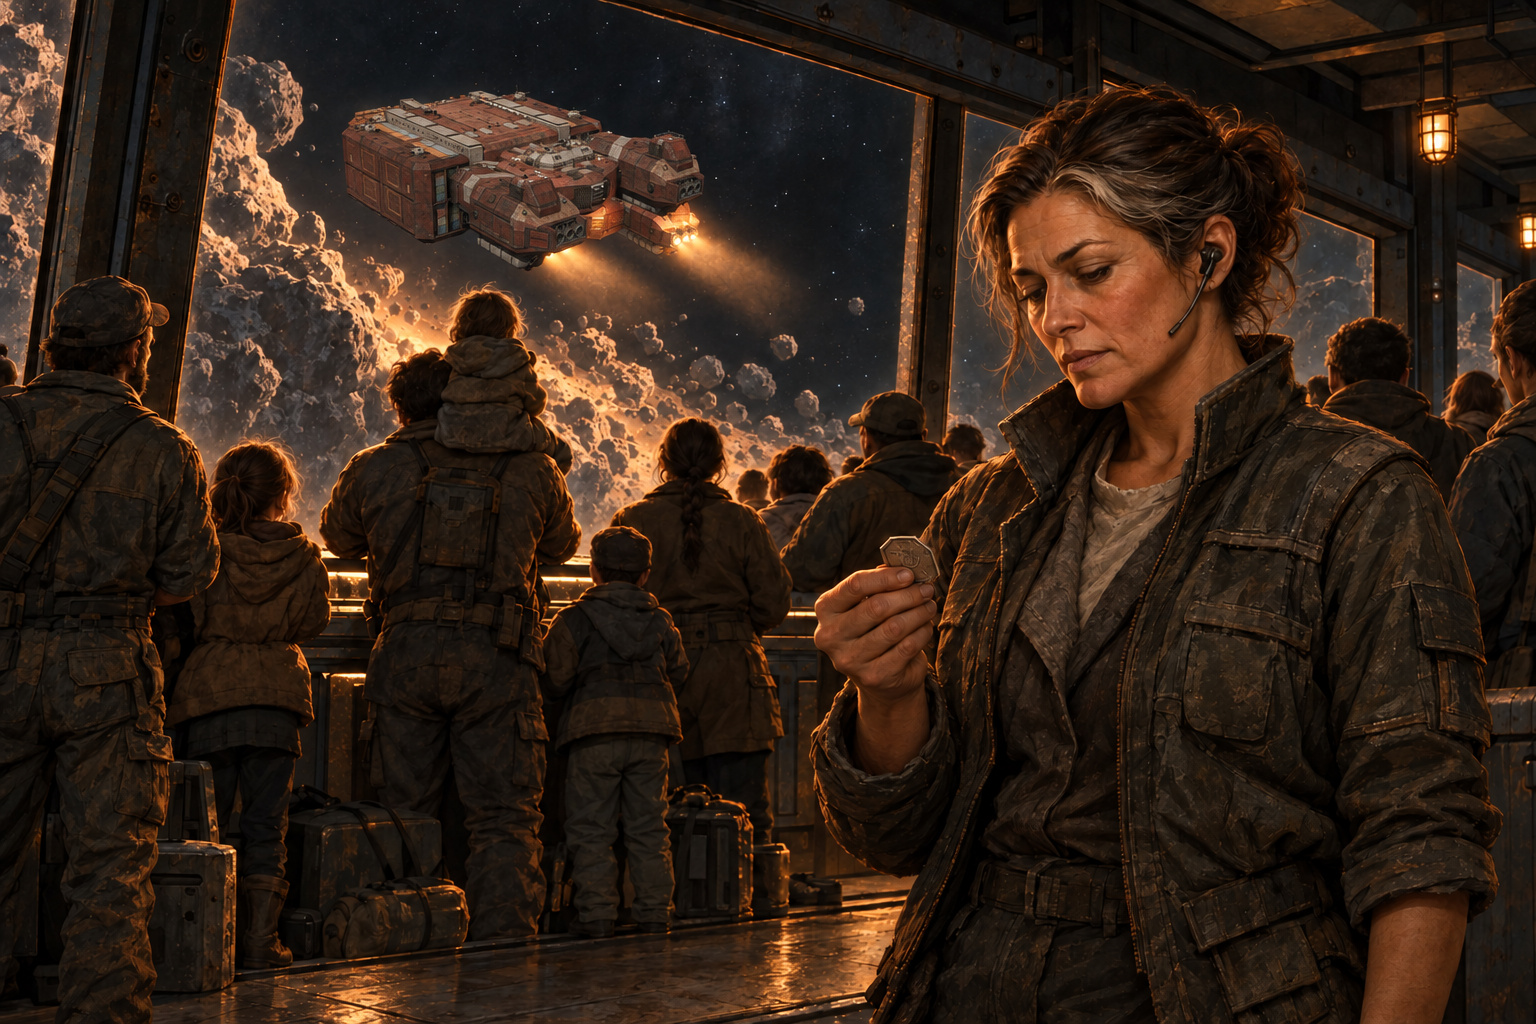
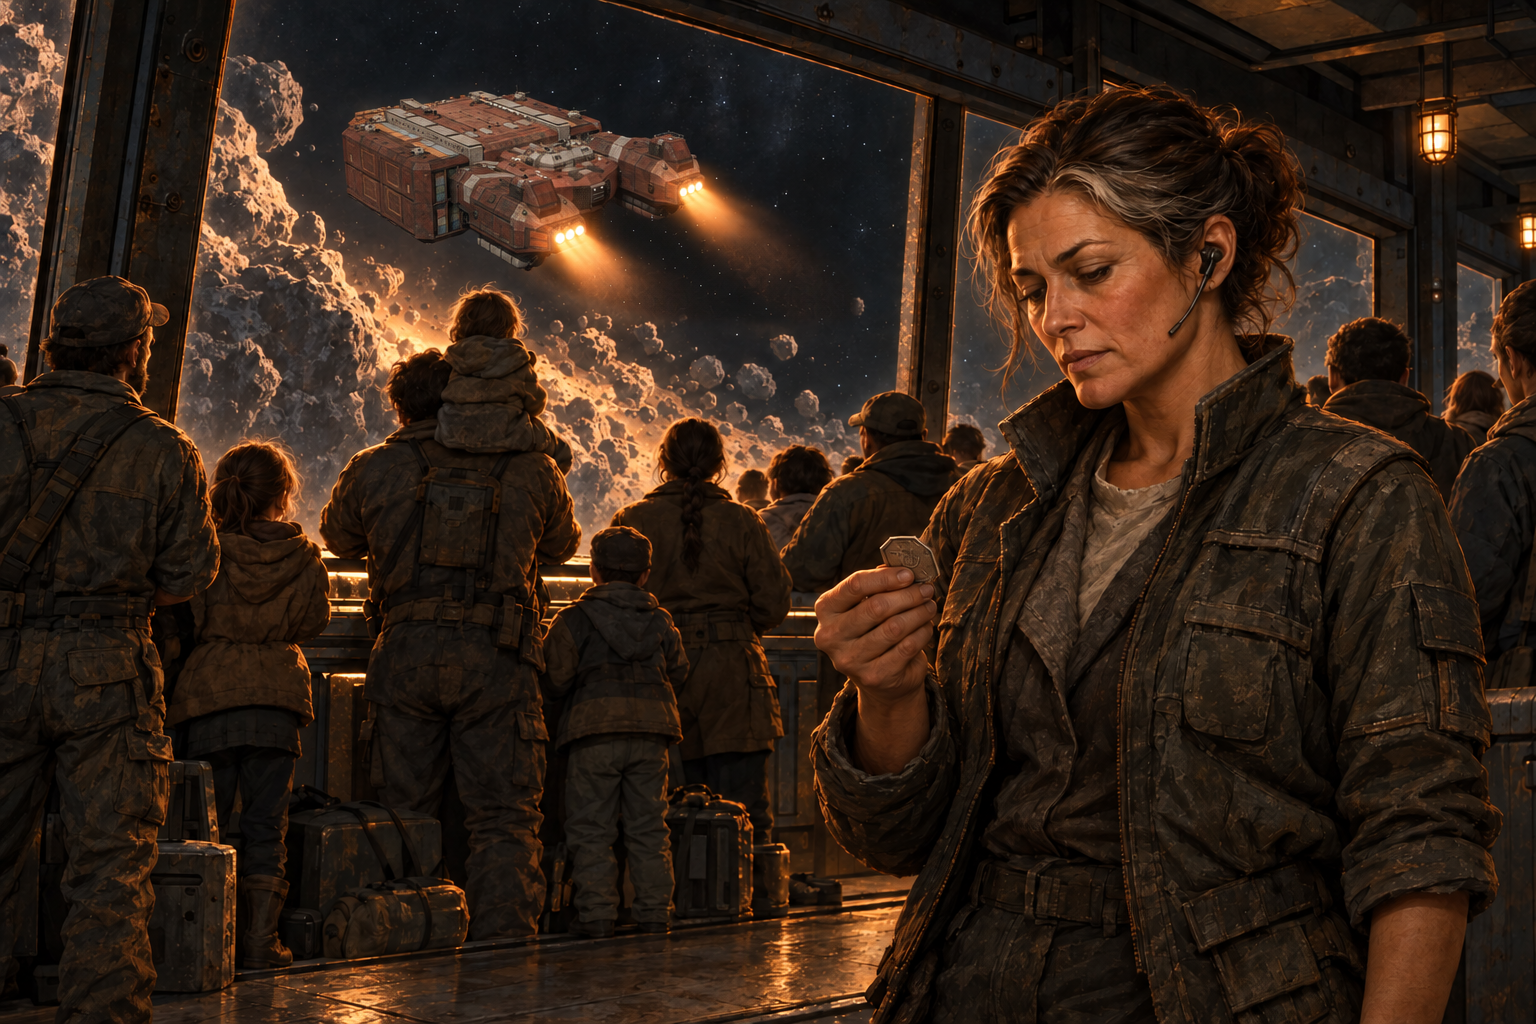
Prologue P3: ship the Colossus thrust fix (owner approved 2026-10-20)
The candidate becomes last-carrier.master.png, its brief and provenance folded
into the master's, and the page is repacked. Only last-carrier.jpg moved.
The generation and its provenance stay beside it.

Changed region(s): [[0.3438, 0.1562, 0.5312, 0.3125]]

diff --git a/art-source/company-prologue/story-stills/guides/p3_thrust.py b/art-source/company-prologue/story-stills/guides/p3_thrust.py
@@ -14,6 +14,9 @@ back to space, and paints the six bells hot with short exhaust foreshortened tow
 the exhaust only (after finding the generation's small offset against the master), so Castle, the
 crowd, the children, the window and the rest of the ship stay pixel-identical. It prints the
 largest change outside the mask, which must be zero.
+
+Both modes were run against the 2026-10-19 master (`git show b7b252566:<story-stills>/last-carrier.master.png`);
+the current master is the result (approved 2026-10-20), so rerunning against it repeats nothing useful.
 """
 import argparse
 import sys

diff --git a/art-source/company-prologue/README.md b/art-source/company-prologue/README.md
@@ -6,7 +6,7 @@ arrival cinematic. These are authoring sources; only the packed JPEGs under
 
 | Location | Purpose |
 |---|---|
-| [story-stills/](story-stills/) | Ten story-frame masters with their exact generation prompts. Used by the campaign intro and yard UI. P1, P4, P5, P6 and P8 are painted over guide renders of the real Second Wind and its bridge (`guides/prologue_guides.py`; people from their portraits, P6's Castle over a grey stand-in at her height); P2 and P3 are new compositions. |
+| [story-stills/](story-stills/) | Ten story-frame masters with their exact generation prompts. Used by the campaign intro and yard UI. P1, P4, P5, P6 and P8 are painted over guide renders of the real Second Wind and its bridge (`guides/prologue_guides.py`; people from their portraits, P6's Castle over a grey stand-in at her height); P2 and P3 are new compositions; P3's freighter is the real Colossus (`guides/colossus_guides.py`), its thrust from its six drive bells (`guides/p3_thrust.py`). |
 | [pack.ps1](pack.ps1) | Packs only `story-stills/*.master.png`: complete 3:2 frames, 1200x800 JPEG, quality 85, maximum 400 KiB each. |
 | `second-wind-hull.reference.png`, `second-wind-design-v1/v2/v3.reference.png` and adjacent prompts | Original hull and design evolution. V3 is the accepted clean/medium geometry reference; earlier sheets remain useful reference art. |
 | [second-wind-geometry/](second-wind-geometry/) | The single accepted clean-hull geometry source (V3 revision), renders and coordinate contract. Older V2 reference images are under `reference-history/v2/`; its obsolete model and builders were removed. |

diff --git a/art-source/company-prologue/second-wind-cinematic/README.md b/art-source/company-prologue/second-wind-cinematic/README.md
@@ -103,8 +103,8 @@ match.
 
 **Post-cinematic pictures** (`../yard-stills/`, the Nessa character sheet): Y1 yard
 with Nessa's cut-out layered on is in the game. Nessa is Kilo Nine's forewoman, about
-52, text only (Castle relays her). The prologue pages P1, P2, P4, P5, P6 and P8 are
-approved and shipped; P3 (Colossus repaint) awaits the owner. P7 (cargo billets) and Y2
+52, text only (Castle relays her). The prologue pages P1 to P6 and P8 are
+approved and shipped; P3's Colossus repaint shipped 2026-10-20 with its thrust from the six drive bells. P7 (cargo billets) and Y2
 (berths fitted) are repainted as a before/after pair and in the game. Not done: a
 picture of Nessa's wall of seals, and C5's crowd still draws a dark-coated stand-in for her.
 
